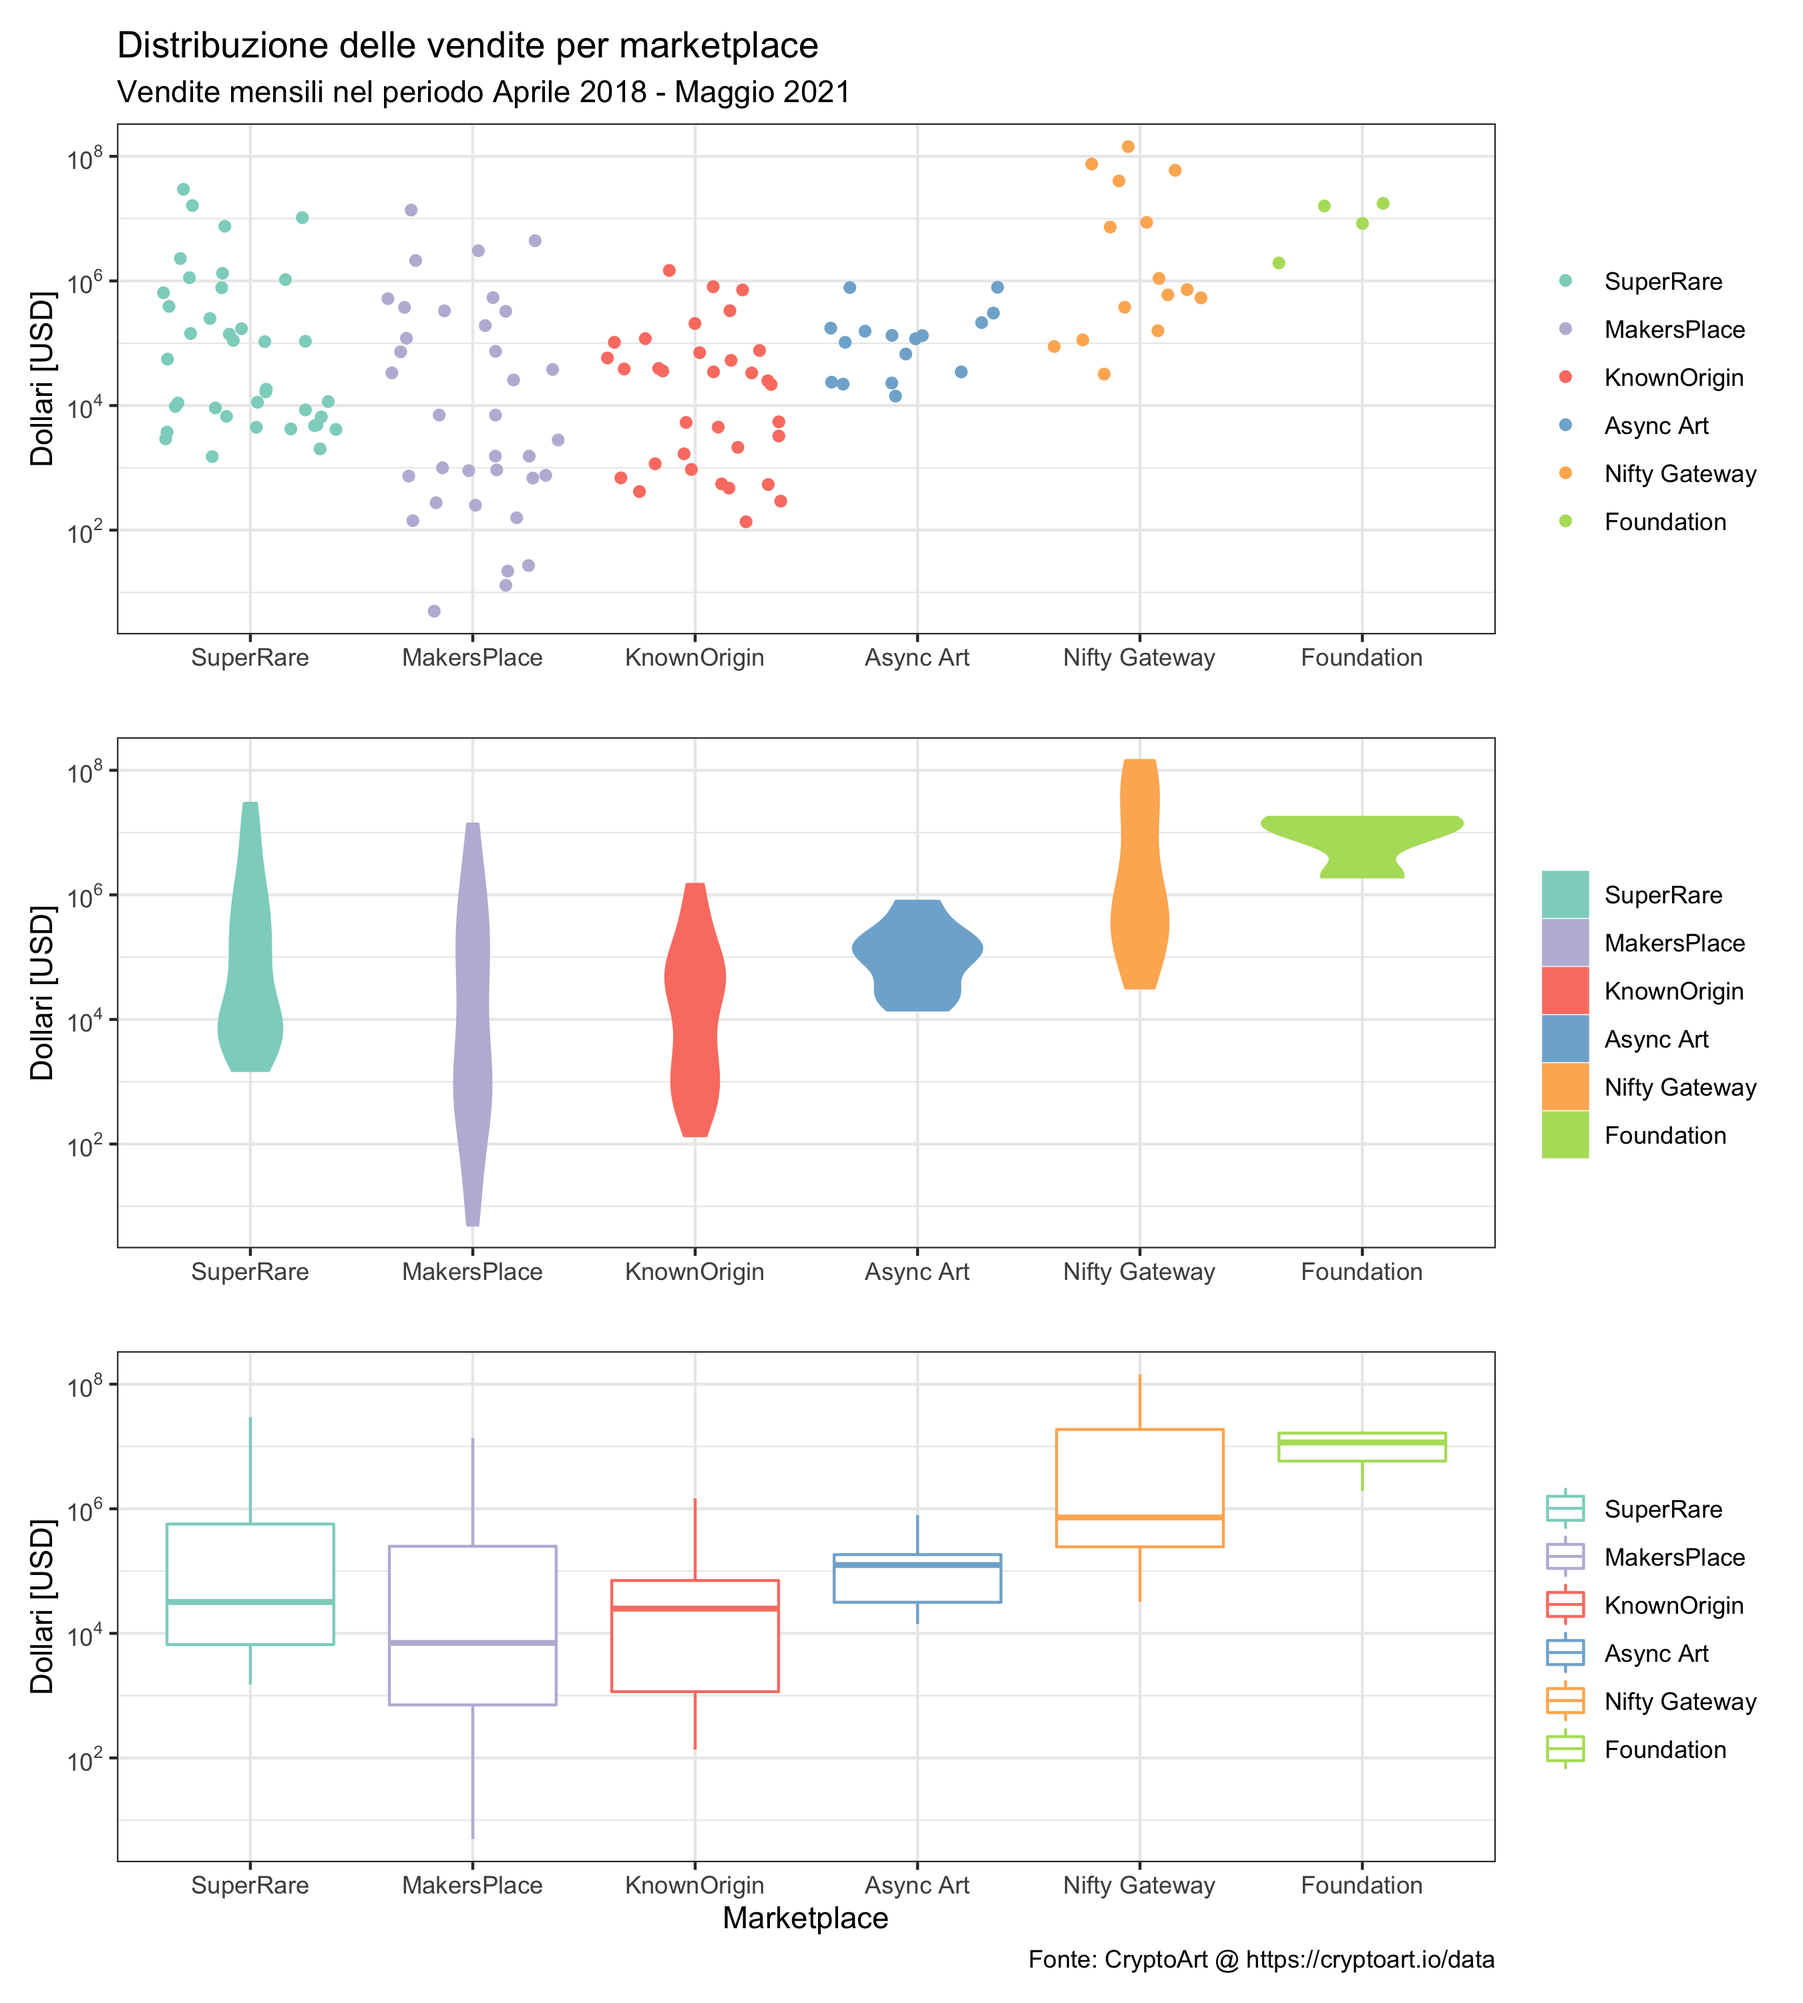
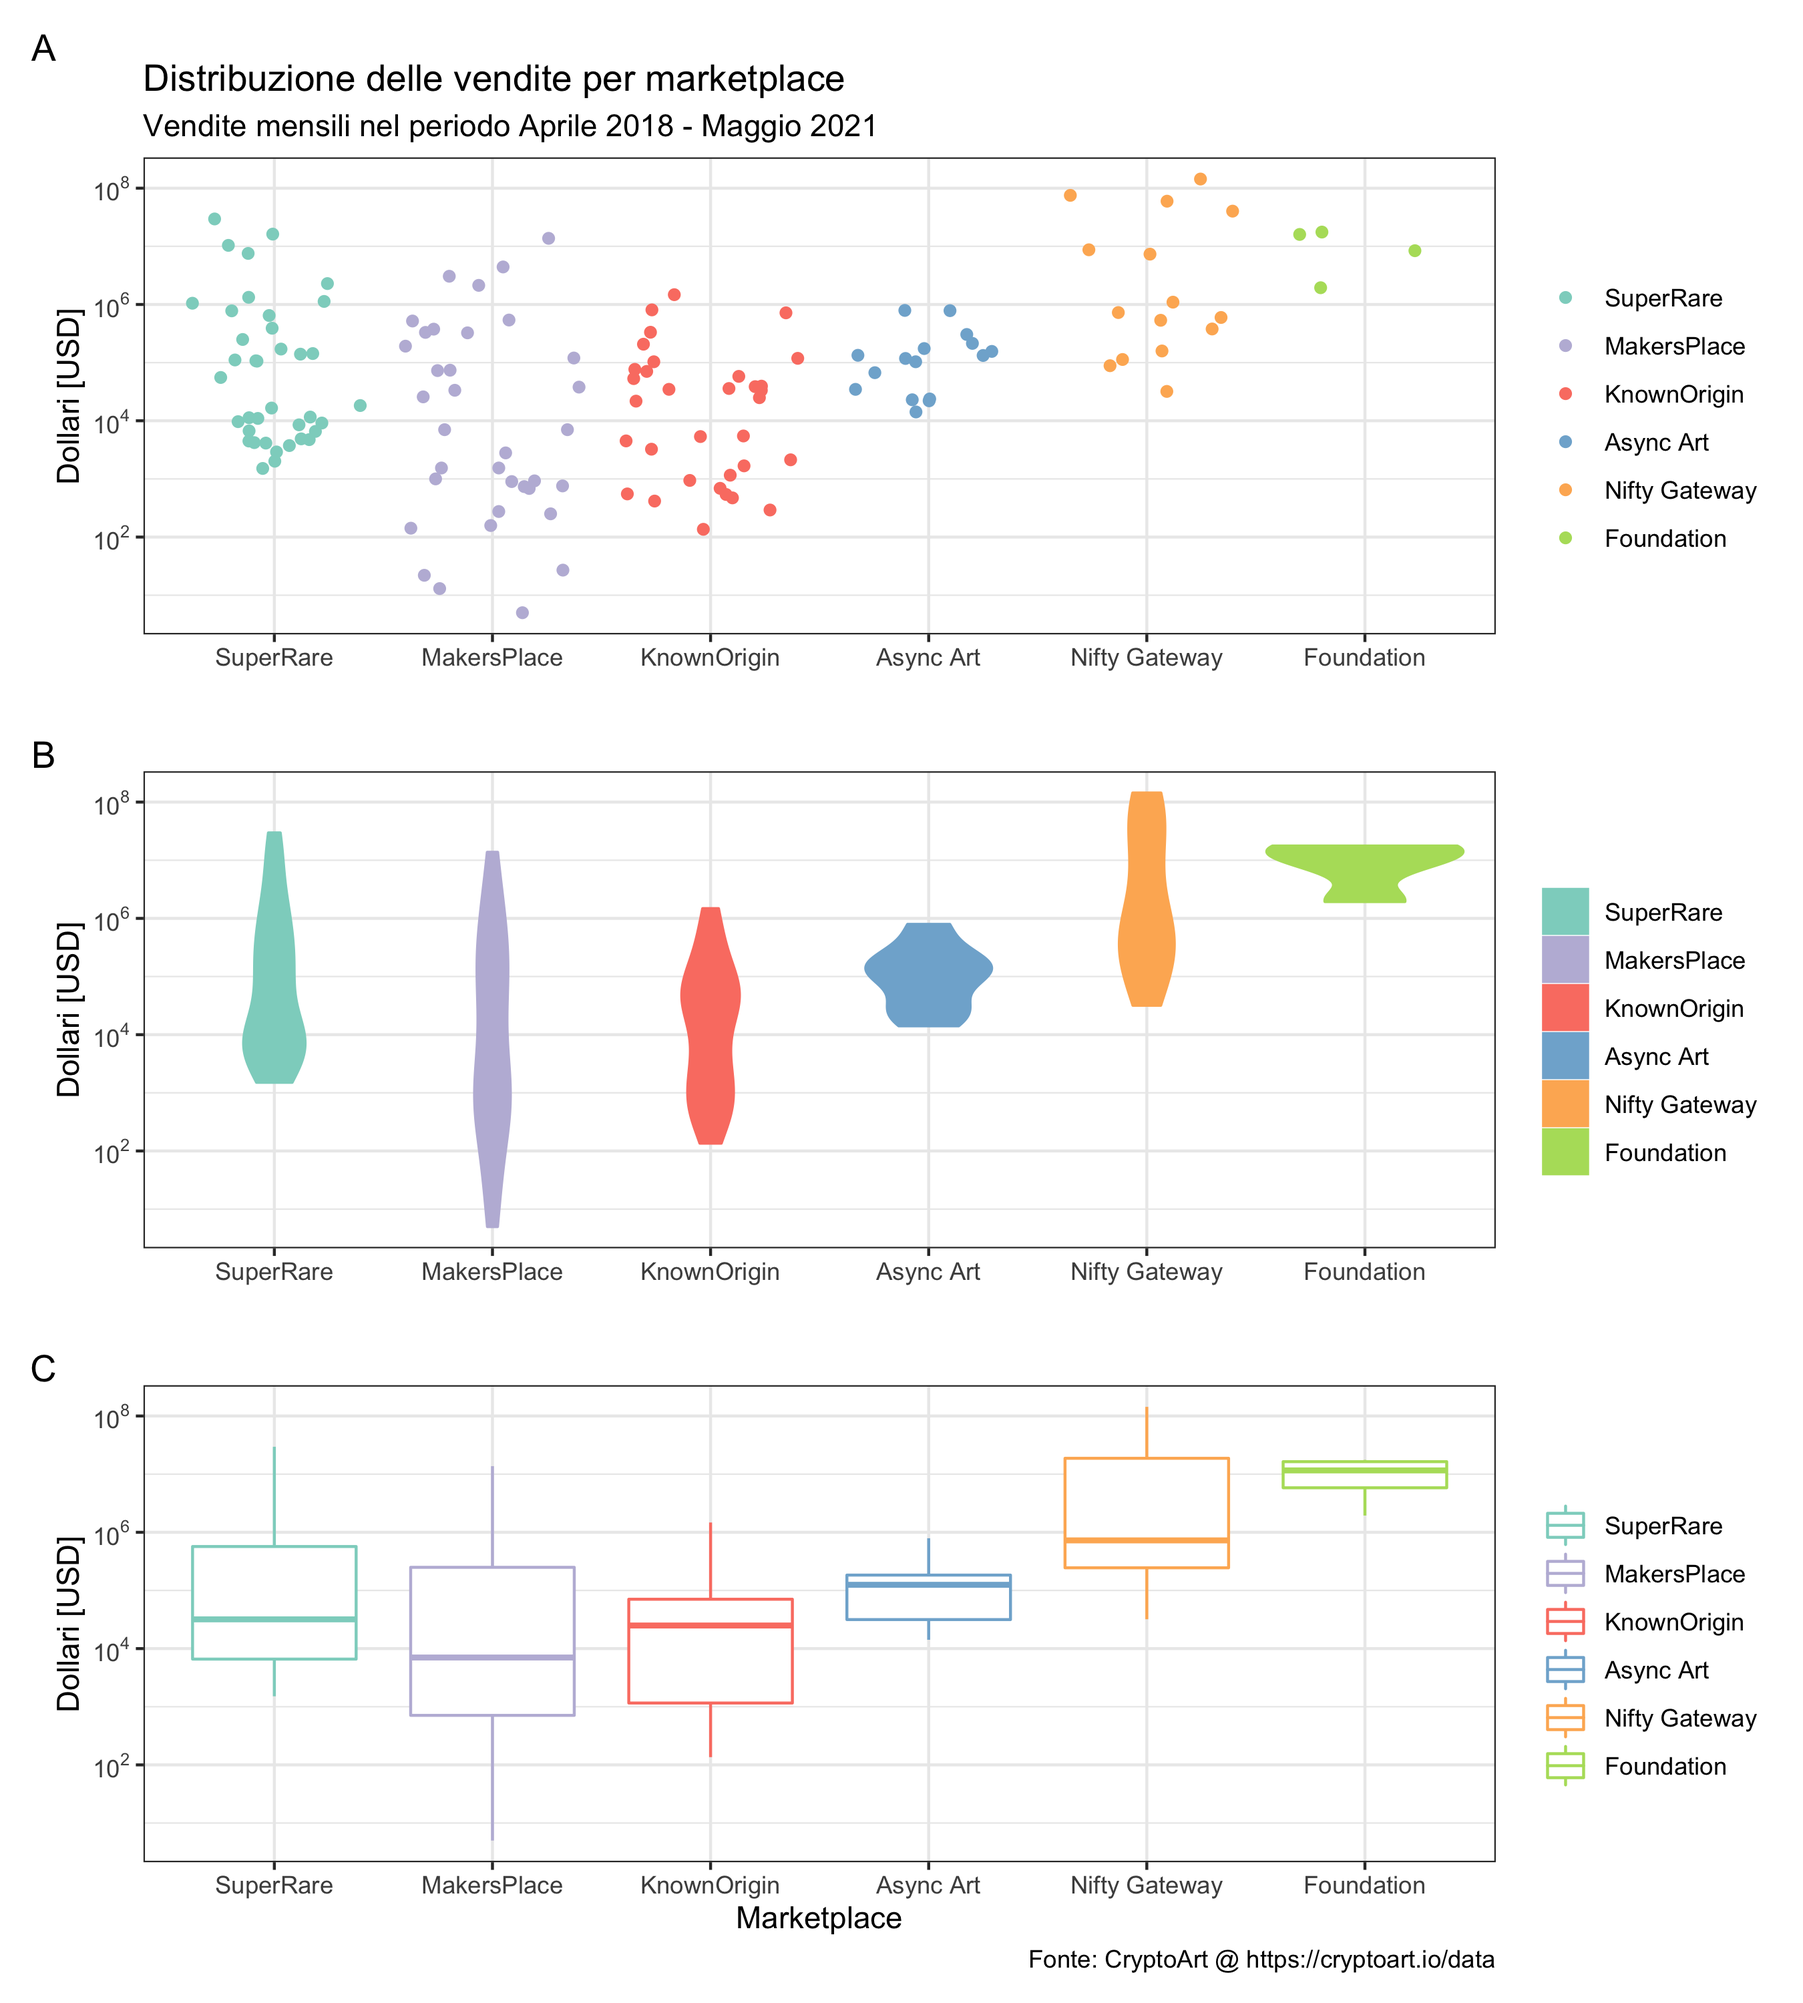
Added tags

diff --git a/README.md b/README.md
@@ -292,6 +292,7 @@ jitter <- crypto_art %>%
   ggtitle("Distribuzione delle vendite per marketplace", "Vendite mensili nel periodo Aprile 2018 - Maggio 2021") +
   xlab("") +
   ylab("Dollari [USD]") +
+  labs(tag = "A") + 
   theme_bw()
 
 violin <- crypto_art %>%
@@ -301,6 +302,7 @@ violin <- crypto_art %>%
   scale_y_log10(breaks = scales::trans_breaks('log10', function(x) 10^x), labels = scales::trans_format('log10', scales::math_format(10^.x))) +
   xlab("") +
   ylab("Dollari [USD]") +
+  labs(tag = "B") + 
   theme_bw()
 
 box <- crypto_art %>%
@@ -311,6 +313,7 @@ box <- crypto_art %>%
   xlab("Marketplace") +
   ylab("Dollari [USD]") +
   labs(caption = "Fonte: CryptoArt @ https://cryptoart.io/data") +
+  labs(tag = "C") + 
   theme_bw()
 
 jitter / violin / box
